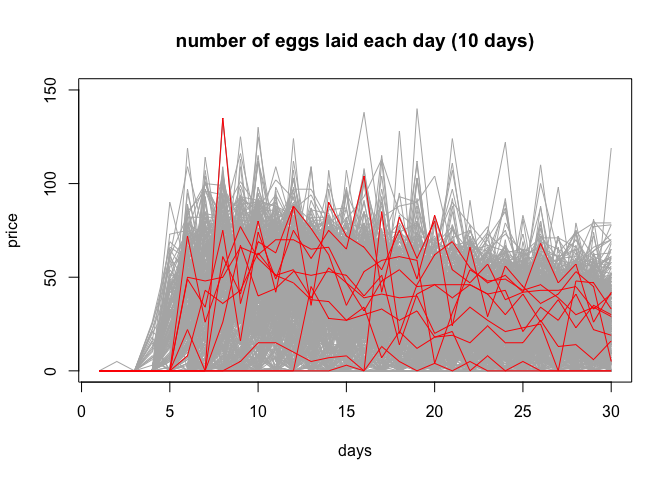
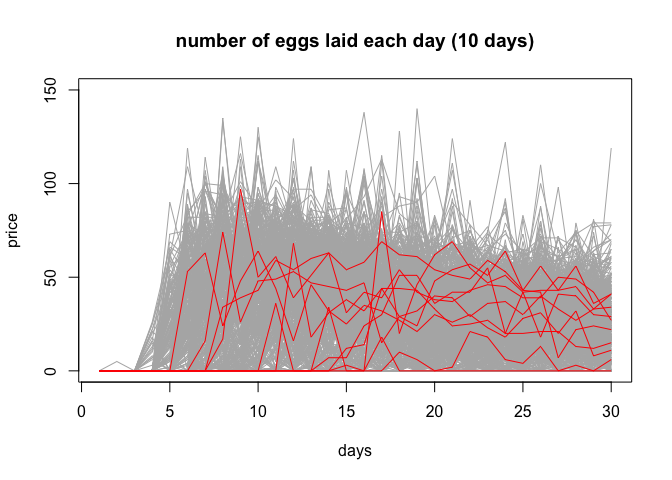
edit

Changed region(s): [[0.25, 0.25, 0.9062, 0.7812], [0.5312, 0.375, 0.5625, 0.4375]]

diff --git a/README.md b/README.md
@@ -15,6 +15,18 @@ You can install the development version of the package in R using:
 devtools::install_github("xmengju/RTFBoost", auth_token ='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')
 ```
 
+    ## 
+    ##      checking for file ‘/private/var/folders/8s/0xr7pswx7sq7sq641ng4g75w0000gn/T/RtmpbqcZV3/remotes1f814ac12e18/xmengju-RTFBoost-29b6a797c8ae906cc066c714926aad4215e58c13/DESCRIPTION’ ...  ✓  checking for file ‘/private/var/folders/8s/0xr7pswx7sq7sq641ng4g75w0000gn/T/RtmpbqcZV3/remotes1f814ac12e18/xmengju-RTFBoost-29b6a797c8ae906cc066c714926aad4215e58c13/DESCRIPTION’
+    ##   ─  preparing ‘RTFBoost’:
+    ##      checking DESCRIPTION meta-information ...  ✓  checking DESCRIPTION meta-information
+    ##   ─  checking for LF line-endings in source and make files and shell scripts
+    ##   ─  checking for empty or unneeded directories
+    ##        NB: this package now depends on R (>= 3.5.0)
+    ##        WARNING: Added dependency on R >= 3.5.0 because serialized objects in  serialize/load version 3 cannot be read in older versions of R.  File(s) containing such objects: ‘RTFBoost/data/fruitfly.RData’
+    ## ─  building ‘RTFBoost_0.1.tar.gz’
+    ##      
+    ## 
+
 Once installed you can load the package with:
 
 ``` r
@@ -41,7 +53,7 @@ distribution of the lifetime variable, measured in days.
 data(fruitfly)
 matplot(t(fruitfly$eggs), lty = 1, type = "l", ylab = "price", xlab = "days", 
         main = "number of eggs laid each day (10 days)", col='gray70', ylim=c(0, 150))
-set.seed(123)
+set.seed(0)
 n <- nrow(fruitfly$eggs)
 matplot(t(fruitfly$eggs[sample(n, 10), ]), type='l', col='red', add=TRUE, lty=1)
 hist(fruitfly$lifetime, xlab = "days", 
@@ -122,7 +134,7 @@ validation set (ℐ<sub>val</sub>) at early stopping time. Denote
 validation residuals as
 *r*<sub>*i*</sub> = *F̂*(*x*<sub>*i*</sub>) − *y*<sub>*i*</sub>, *i* ∈ ℐ<sub>val</sub>
 , the robust MSPE is defined as
-*μ̂*<sub>*M*</sub>({*r*<sub>*i*</sub>, *i* ∈ ℐ<sub>val</sub>}) + *σ̂*<sub>*M*</sub><sup>2</sup>({*r*<sub>*i*</sub>, *i* ∈ ℐ<sub>val</sub>}),
+*μ̂*<sub>*M*</sub><sup>2</sup>({*r*<sub>*i*</sub>, *i* ∈ ℐ<sub>val</sub>}) + *σ̂*<sub>*M*</sub><sup>2</sup>({*r*<sub>*i*</sub>, *i* ∈ ℐ<sub>val</sub>}),
 where *μ*<sub>*M*</sub> is the M-location estimator and
 *σ*<sub>*M*</sub> is the M-scale estimator. We use Tukey’s score
 function and let asymptotic efficiency of *μ*<sub>*M*</sub> and
@@ -317,11 +329,11 @@ print(c(err.l2, err.lad, err.ladm, err.rr, err.rr.m, err.fgam))
     ## [1] 150.3275 146.3308 147.3556 146.5420 146.5420 152.9956
 
 ``` r
-err.l2 <-cal.rmspe((model.l2$f.test- ytest))
-err.lad <-cal.rmspe( (model.lad$f.test- ytest))
-err.ladm <-cal.rmspe( (model.ladm$f.test- ytest))
-err.rr <-cal.rmspe( (model.rr$f.test- ytest))
-err.rr.m <-cal.rmspe( (model.rr.m$f.test- ytest))
+err.l2 <-cal.rmspe(model.l2$f.test- ytest)
+err.lad <-cal.rmspe(model.lad$f.test- ytest)
+err.ladm <-cal.rmspe(model.ladm$f.test- ytest)
+err.rr <-cal.rmspe(model.rr$f.test- ytest)
+err.rr.m <-cal.rmspe(model.rr.m$f.test- ytest)
 
 err.fgam <-  cal.rmspe( (predict(model.fgam,
                                newdata=list(xx =xtest),
